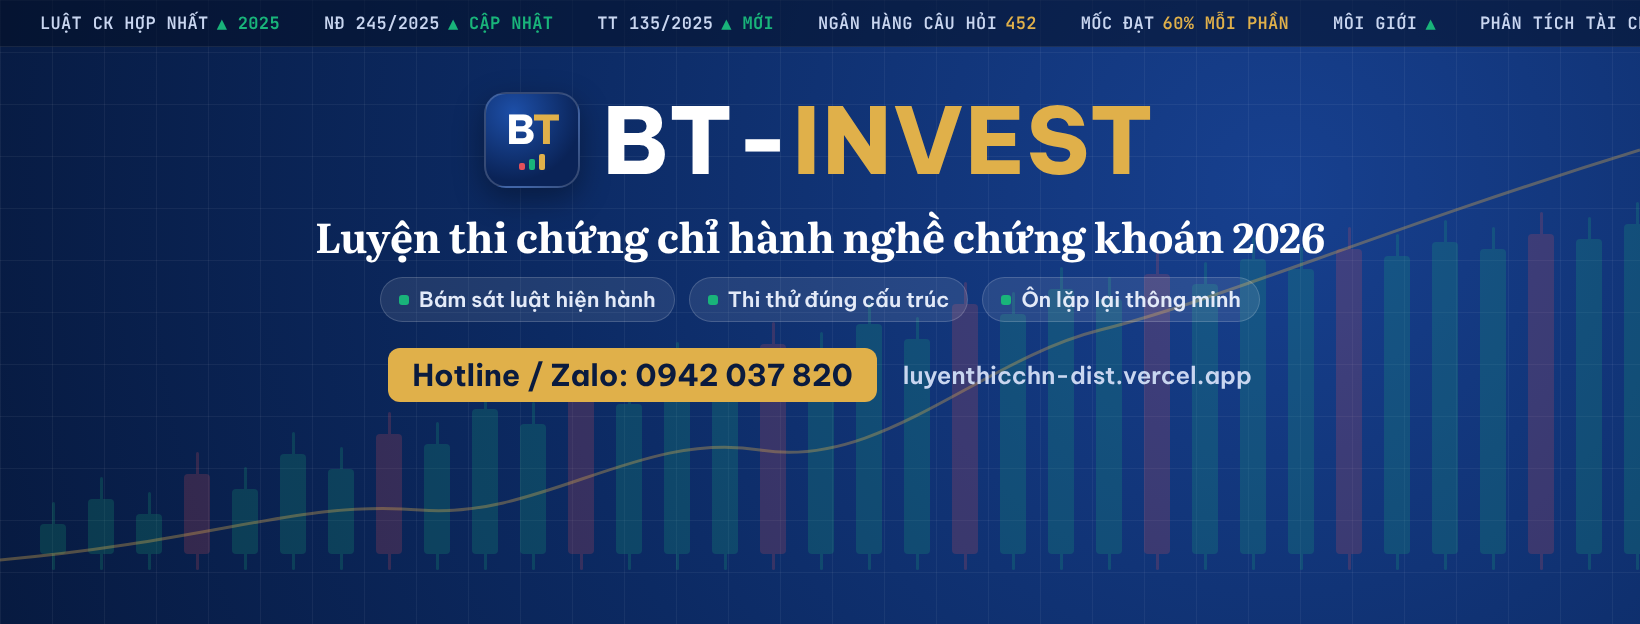
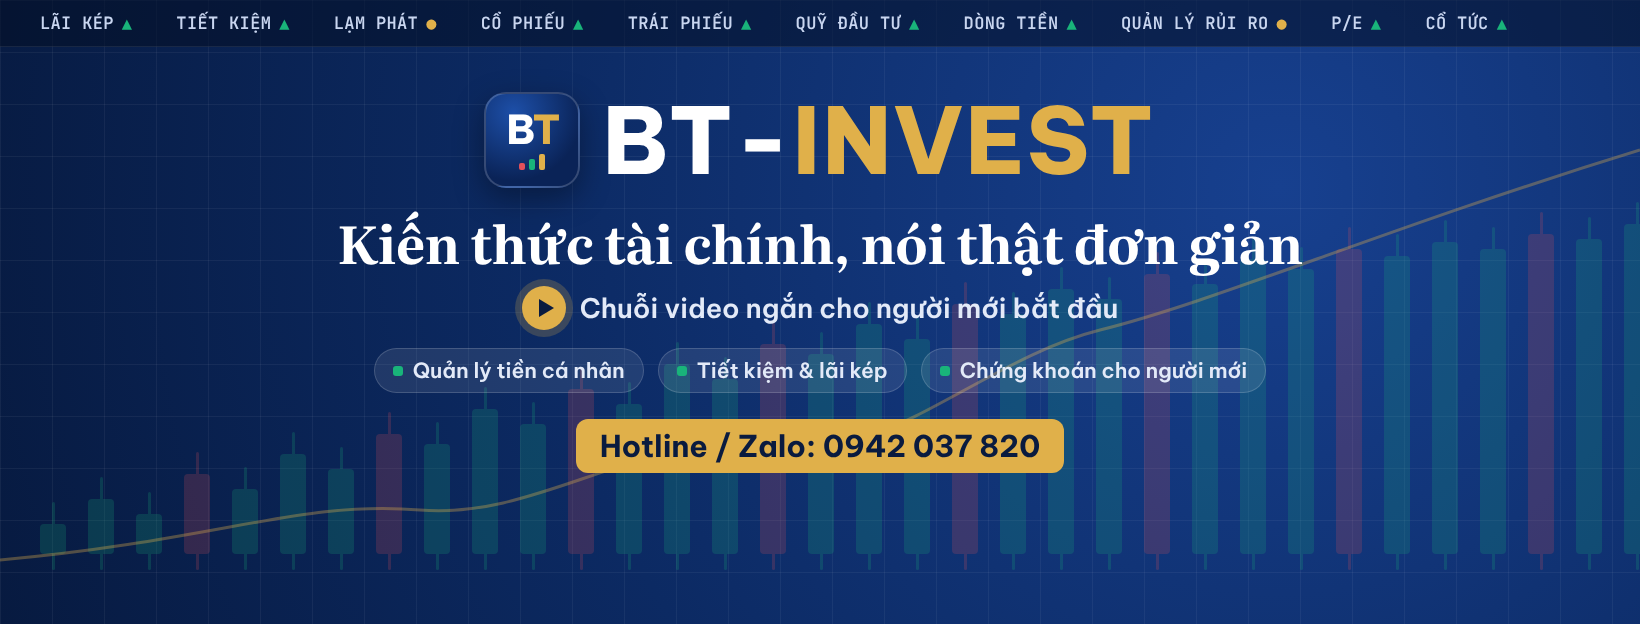
Ảnh bìa Facebook: chuyển sang chủ đề chuỗi video kiến thức tài chính đơn giản
Claude-Session: https://claude.ai/code/session_01XnR7B1BsN8oKGhXifeYvJC

Changed region(s): [[0.1866, 0.3349, 0.8085, 0.7612], [0.0311, 0.0, 1.0, 0.0609]]

diff --git a/web/brand/cover.html b/web/brand/cover.html
@@ -28,7 +28,10 @@ body { margin: 0; background: #ccc; }
 .mark span { font: 800 40px/1 "Be Vietnam Pro"; letter-spacing: -2px; } .mark span i { font-style: normal; color: var(--gold); }
 .mark em { display: flex; align-items: flex-end; gap: 4px; height: 16px; } .mark em b { width: 6px; border-radius: 2px; display: block; }
 .word { font: 800 92px/1 "Be Vietnam Pro"; letter-spacing: 2px; } .word i { font-style: normal; color: var(--gold); }
-h1 { margin: 6px 0 0; font: 700 41px/1.15 "Literata", Georgia, serif; letter-spacing: -.3px; white-space: nowrap; }
+h1 { margin: 6px 0 0; font: 700 52px/1.15 "Literata", Georgia, serif; letter-spacing: -.3px; white-space: nowrap; }
+.series { display: flex; align-items: center; gap: 14px; font: 600 27px/1.2 "Be Vietnam Pro"; color: #E3EAF8; margin-top: -4px; }
+.play { width: 44px; height: 44px; border-radius: 50%; background: var(--gold); position: relative; flex: none; box-shadow: 0 0 0 7px rgba(224,176,74,.22); }
+.play::after { content: ""; position: absolute; left: 17px; top: 13px; border-left: 15px solid #0A1B3F; border-top: 9px solid transparent; border-bottom: 9px solid transparent; }
 .pills { display: flex; gap: 14px; flex-wrap: wrap; justify-content: center; }
 .pills span { padding: 9px 18px; border-radius: 999px; background: rgba(255,255,255,.09); border: 1px solid rgba(255,255,255,.16); font: 600 21px/1.2 "Be Vietnam Pro"; color: #E3EAF8; }
 .pills span::before { content: ""; display: inline-block; width: 10px; height: 10px; border-radius: 3px; background: var(--up); margin-right: 10px; vertical-align: 2px; }
@@ -45,17 +48,18 @@ h1 { margin: 6px 0 0; font: 700 41px/1.15 "Literata", Georgia, serif; letter-spa
     <path d="M0 560 C 220 540, 300 500, 420 510 S 640 430, 760 450 S 980 360, 1100 330 S 1380 230, 1640 150" fill="none" stroke="#E0B04A" stroke-width="3" opacity=".35"/>
   </svg>
   <div class="tape">
-    <span>LUẬT CK HỢP NHẤT<b>▲ 2025</b></span><span>NĐ 245/2025<b>▲ CẬP NHẬT</b></span><span>TT 135/2025<b>▲ MỚI</b></span>
-    <span>NGÂN HÀNG CÂU HỎI<i>452</i></span><span>MỐC ĐẠT<i>60% MỖI PHẦN</i></span><span>MÔI GIỚI<b>▲</b></span><span>PHÂN TÍCH TÀI CHÍNH<b>▲</b></span><span>QUẢN LÝ QUỸ<b>▲</b></span>
+    <span>LÃI KÉP<b>▲</b></span><span>TIẾT KIỆM<b>▲</b></span><span>LẠM PHÁT<i>●</i></span><span>CỔ PHIẾU<b>▲</b></span><span>TRÁI PHIẾU<b>▲</b></span>
+    <span>QUỸ ĐẦU TƯ<b>▲</b></span><span>DÒNG TIỀN<b>▲</b></span><span>QUẢN LÝ RỦI RO<i>●</i></span><span>P/E<b>▲</b></span><span>CỔ TỨC<b>▲</b></span>
   </div>
   <div class="main">
     <div class="brand">
       <div class="mark"><span>B<i>T</i></span><em><b style="height:7px;background:var(--down)"></b><b style="height:11px;background:var(--up)"></b><b style="height:16px;background:var(--gold)"></b></em></div>
       <div class="word">BT-<i>INVEST</i></div>
     </div>
-    <h1>Luyện thi chứng chỉ hành nghề chứng khoán 2026</h1>
-    <div class="pills"><span>Bám sát luật hiện hành</span><span>Thi thử đúng cấu trúc</span><span>Ôn lặp lại thông minh</span></div>
-    <div class="contact"><span class="hot">Hotline / Zalo: 0942 037 820</span><span class="web">luyenthicchn-dist.vercel.app</span></div>
+    <h1>Kiến thức tài chính, nói thật đơn giản</h1>
+    <div class="series"><span class="play" aria-hidden="true"></span>Chuỗi video ngắn cho người mới bắt đầu</div>
+    <div class="pills"><span>Quản lý tiền cá nhân</span><span>Tiết kiệm &amp; lãi kép</span><span>Chứng khoán cho người mới</span></div>
+    <div class="contact"><span class="hot">Hotline / Zalo: 0942 037 820</span></div>
   </div>
 </div>
 <script>
